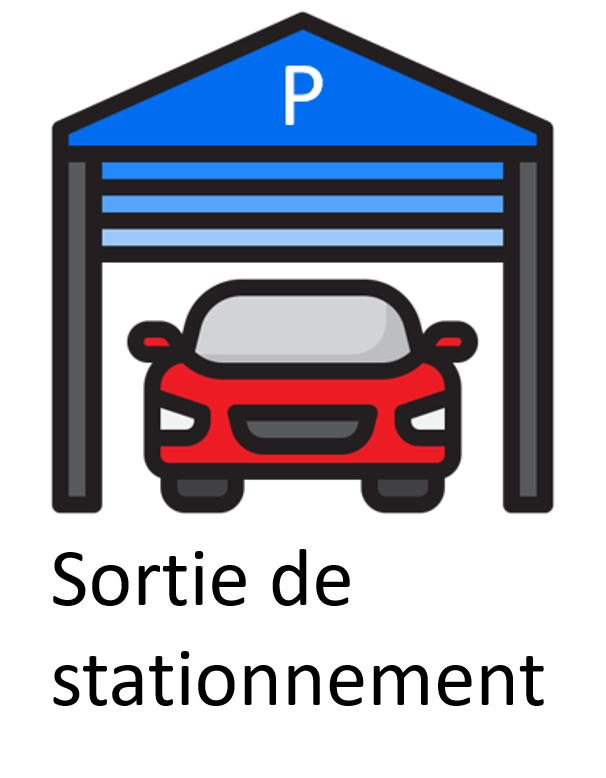
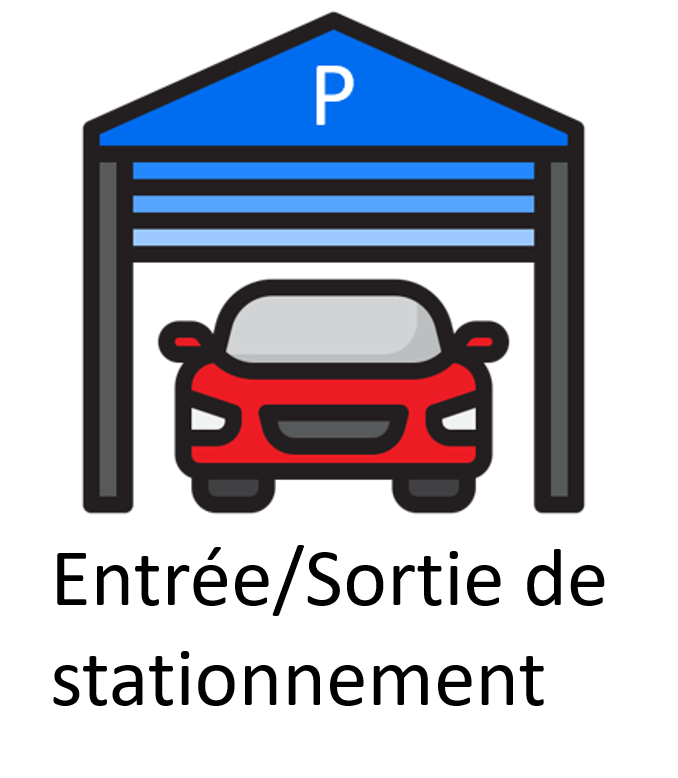
MODIFY: Ajout du bouton situation accidentelle (aussi nommée incident) - modification du bouton remontée file qui est devenu dépassement proche - Modification du bouton Embouteillages qui est devenu éblouissement - Modification  des images sortie de stationnement, remontée file, sortie vehicules

diff --git a/CADisp/cadisp/dashboard.py b/CADisp/cadisp/dashboard.py
@@ -67,6 +67,7 @@ class Dashboard(QtWidgets.QMainWindow):
         self._QLabelimageRetourArr = (str(pictures_folder / "retour-arriere.png"))
         self._QLabelimagePlus = (str(pictures_folder / "plus.PNG"))
         self._QLabelimageMoins = (str(pictures_folder / "moins.PNG"))
+        self._QLabelimageIncident = (str(pictures_folder / "situation_accidentelle.png"))
 
         # Image pour le codage si pas d'événement
         self._QLabelimageZeroEvent = (str(pictures_folder / "zero_event.png"))
@@ -79,7 +80,7 @@ class Dashboard(QtWidgets.QMainWindow):
         self._QLabelimageREfusPrioMvt = str(pictures_folder / "refus_prio_new.png")
         self._QLabelimageSortieStatioMvt = str(pictures_folder / "garage.png")
         self._QLabelimageRabattementMvt = str(pictures_folder / "no_overtaking.png")
-        self._QLabelimageRemonteeFileMvt = str(pictures_folder / "remontee_file.png")
+        self._QLabelimageDepassementProcheMvt = str(pictures_folder / "remontee_file.png")
         self._QLabelimageNonRespectPrioRPMvt = str(pictures_folder / "crossroad.png")
         self._QLabelimageVitesseExcessiveMvt = str(pictures_folder / "fast.png")
 
@@ -93,7 +94,7 @@ class Dashboard(QtWidgets.QMainWindow):
         self._QLabelimageTravauxEnvi = str(pictures_folder / "traffic-cone.png")
         self._QLabelimageIntemperiesEnvi = str(pictures_folder / "thunderstorm.png")
         self._QLabelimageVegetationEnvi = str(pictures_folder / "tree.png")
-        self._QLabelimageEmbouteillageEnvi = str(pictures_folder / "traffic.png")
+        self._QLabelimageEblouissementEnvi = str(pictures_folder / "eblouissement.png")
         self._QLabelimageStationnementGenantEnvi = str(pictures_folder / "no-car.png")
         self._QLabelimageAnimalEnvi = str(pictures_folder / "pigeon.png")
 
@@ -150,6 +151,18 @@ class Dashboard(QtWidgets.QMainWindow):
         self.buttonMalGere.setObjectName("Mal_gérée")
         self.buttonMalGere.mousePressEvent = functools.partial(self._on_click, name=self.buttonMalGere.objectName())
         layout.addWidget(self.buttonMalGere, 0, 2)
+        
+        
+        ############
+        scaledpixmapIncident = QtGui.QPixmap(self._QLabelimageIncident).scaled(self._image_size,
+                                                                             QtCore.Qt.KeepAspectRatio,
+                                                                             QtCore.Qt.SmoothTransformation)
+        self.buttonIncident = QPushButton()
+        self.buttonIncident.setIcon(QtGui.QIcon(scaledpixmapIncident))
+        self.buttonIncident.setIconSize(self._image_size)
+        self.buttonIncident.setObjectName("Incident")
+        self.buttonIncident.mousePressEvent = functools.partial(self._on_click, name=self.buttonIncident.objectName())
+        layout.addWidget(self.buttonIncident, 0, 3)
 
 
         ############
@@ -210,17 +223,17 @@ class Dashboard(QtWidgets.QMainWindow):
         layout.addWidget(self.buttonVegetation, 2, 2)
 
         ############
-        scaledpixmapEmbouteillageEnvi = QtGui.QPixmap(self._QLabelimageEmbouteillageEnvi).scaled(self._image_size,
+        scaledpixmapEblouissementEnvi = QtGui.QPixmap(self._QLabelimageEblouissementEnvi).scaled(self._image_size,
                                                                                                  QtCore.Qt.KeepAspectRatio,
                                                                                                  QtCore.Qt.SmoothTransformation)
 
-        self.buttonEmbouteillage = QPushButton()
-        self.buttonEmbouteillage.setIcon(QtGui.QIcon(scaledpixmapEmbouteillageEnvi))
-        self.buttonEmbouteillage.setIconSize(self._image_size)
-        self.buttonEmbouteillage.setObjectName("Embouteillages")
-        self.buttonEmbouteillage.mousePressEvent = functools.partial(self._on_click,
-                                                                     name=self.buttonEmbouteillage.objectName())
-        layout.addWidget(self.buttonEmbouteillage, 2, 3)
+        self.buttonEblouissement = QPushButton()
+        self.buttonEblouissement.setIcon(QtGui.QIcon(scaledpixmapEblouissementEnvi))
+        self.buttonEblouissement.setIconSize(self._image_size)
+        self.buttonEblouissement.setObjectName("Eblouissement")
+        self.buttonEblouissement.mousePressEvent = functools.partial(self._on_click,
+                                                                     name=self.buttonEblouissement.objectName())
+        layout.addWidget(self.buttonEblouissement, 2, 3)
 
         ############
         scaledpixmapTravauxEnvi = QtGui.QPixmap(self._QLabelimageTravauxEnvi).scaled(self._image_size,
@@ -356,17 +369,17 @@ class Dashboard(QtWidgets.QMainWindow):
         layout.addWidget(self.buttonSortieStatio, 1, 1)
 
         ############
-        scaledpixmapRemonteeFileMvt = QtGui.QPixmap(self._QLabelimageRemonteeFileMvt).scaled(
+        scaledpixmapDepassementProcheMvt = QtGui.QPixmap(self._QLabelimageDepassementProcheMvt).scaled(
             self._image_size,
             QtCore.Qt.KeepAspectRatio,
             QtCore.Qt.SmoothTransformation)
-        self.buttonRemonteeFile = QPushButton()
-        self.buttonRemonteeFile.setIcon(QtGui.QIcon(scaledpixmapRemonteeFileMvt))
-        self.buttonRemonteeFile.setIconSize(self._image_size)
-        self.buttonRemonteeFile.setObjectName("Remontée_file")
-        self.buttonRemonteeFile.mousePressEvent = functools.partial(self._on_click,
-                                                                    name=self.buttonRemonteeFile.objectName())
-        layout.addWidget(self.buttonRemonteeFile, 1, 3)
+        self.buttonDepassementProche = QPushButton()
+        self.buttonDepassementProche.setIcon(QtGui.QIcon(scaledpixmapDepassementProcheMvt))
+        self.buttonDepassementProche.setIconSize(self._image_size)
+        self.buttonDepassementProche.setObjectName("Depassemt_proche")
+        self.buttonDepassementProche.mousePressEvent = functools.partial(self._on_click,
+                                                                    name=self.buttonDepassementProche.objectName())
+        layout.addWidget(self.buttonDepassementProche, 1, 3)
 
         ############
         scaledpixmapNonRespectPrioRPMvt = QtGui.QPixmap(self._QLabelimageNonRespectPrioRPMvt).scaled(

diff --git a/ReadMe.MD b/ReadMe.MD
@@ -16,9 +16,7 @@ Les tags créés sont enregistrés dans un fichier csv dans un dossier avec le n
 
 
 
-Cette application reprend une application [CADisp](https://github.com/uge-lescot/CADisp) développée par Romain Derollepot, [@rderollepot](https://github.com/rderollepot)
-
-
+Cette application reprend une application [CADisp](https://github.com/uge-lescot/CADisp) développée par Bertrand Richard, [@brifsttar](https://github.com/brifsttar) et Romain Derollepot, [@rderollepot](https://github.com/rderollepot)
 
 
 
@@ -59,7 +57,7 @@ L'application ne fonctionnera que si le dossier ``C:\Users\ena\Desktop\resultats
 ## 4. Comment l'utiliser ?
 
 - Lancer le fichier : ``\CADisp\batch\launch.bat``
-- Vous arriver normalement sur cet écran :
+- Vous arrivez normalement sur cet écran :
 
 <img src=".\Image\Application_Main.png" style="zoom:50%;" />
 
@@ -84,8 +82,11 @@ Personnes ayant travaillés sur cette application :
 - Romain DEROLLEPOT, [@rderollepot](https://github.com/rderollepot)
 - Fabien MOREAU, [@fmoreau69](https://github.com/fmoreau69)
 - Cao Tri DO, [@malganis35](https://github.com/malganis35)
+- Bertrand Richard,  [@brifsttar](https://github.com/brifsttar) 
 
 
+
+Origine des icônes : https://www.flaticon.com/
 
 ## 7. Licence
 
